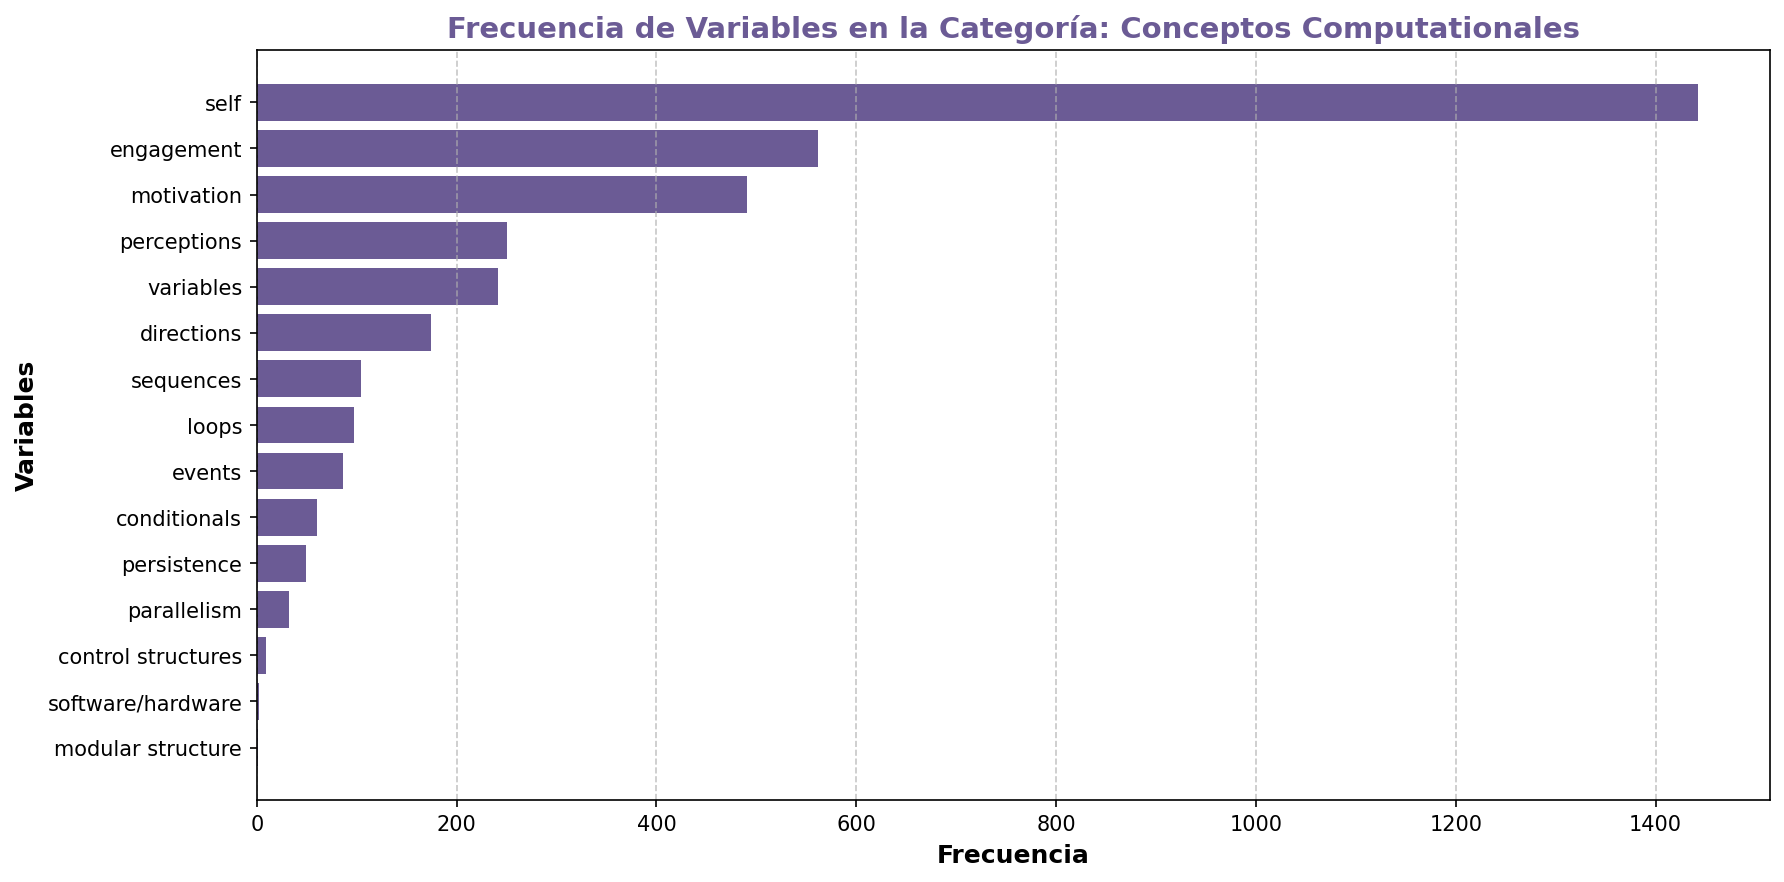
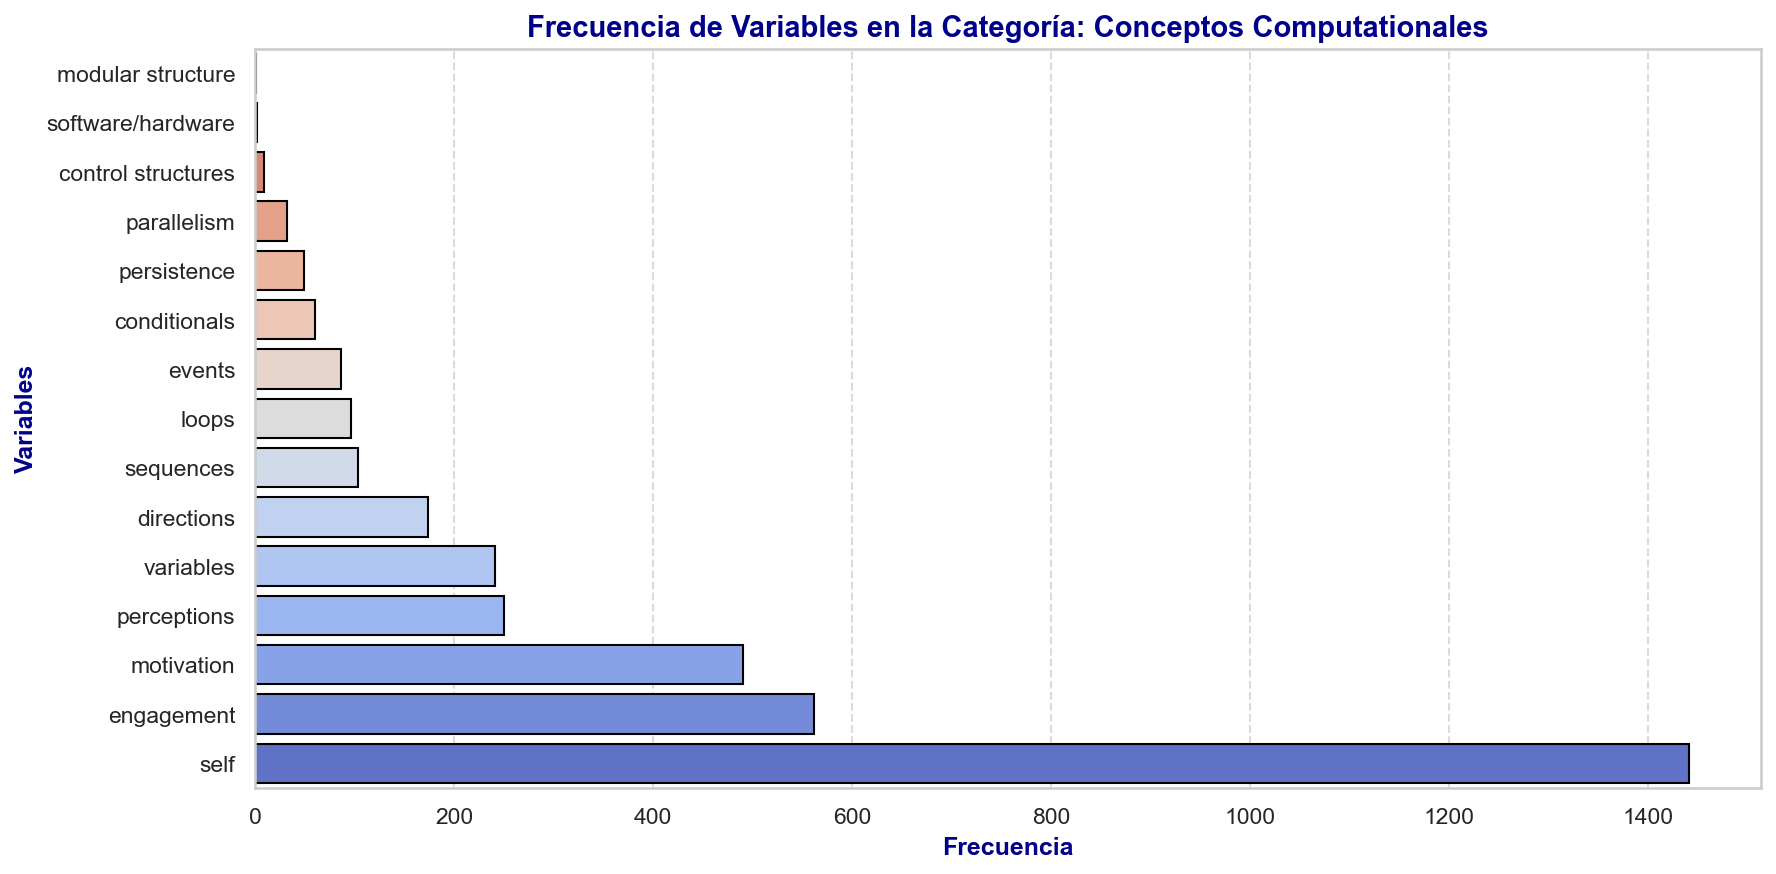
estadisticas mejoradas

diff --git a/requerimiento3&4/conteoPalabrasAbstract.py b/requerimiento3&4/conteoPalabrasAbstract.py
@@ -6,9 +6,11 @@ from collections import Counter, defaultdict
 import re
 from tqdm import tqdm
 from colorama import Fore, Style, init
+import seaborn as sns
 
-# Inicializar colorama
+# Inicializar colorama y configurar el estilo de seaborn
 init(autoreset=True)
+sns.set(style="whitegrid", palette="muted")
 
 # Función para cargar categorías y variables desde el archivo de texto
 def load_categories_from_file(filepath):
@@ -17,10 +19,8 @@ def load_categories_from_file(filepath):
         current_category = None
         for line in file:
             line = line.strip()
-            # Detectar el inicio de una nueva categoría
             if line.lower().startswith("categoría:") or line.lower().startswith("categoria:"):
                 current_category = line.split(":")[1].strip()
-            # Detectar variables dentro de una categoría
             elif line and current_category and not line.lower().startswith("variables:"):
                 categories[current_category].append(line)
     return dict(categories)
@@ -35,41 +35,33 @@ def print_title(title):
 
 # Función para procesar los abstracts y contar las palabras clave
 def count_keywords_in_abstracts(df, categories):
-    # Almacenar resultados de las frecuencias por categoría
     keyword_frequencies = {category: Counter() for category in categories}
     
-    # Progreso de la terminal con tqdm y colorama
     for index, row in tqdm(df.iterrows(), total=df.shape[0], desc=Fore.GREEN + "Procesando abstracts", unit="step"):
-        abstract = str(row['Abstract']).lower()  # Convertir a minúsculas para búsqueda insensible a mayúsculas
+        abstract = str(row['Abstract']).lower()
         
-        # Procesar sinónimos con guiones, unificando en una sola palabra
         for category, keywords in categories.items():
             for keyword in keywords:
-                # Reemplazar sinónimos por la palabra clave unificada
                 keyword_lower = keyword.lower()
                 if '-' in keyword:
-                    unified_keyword = keyword.split('-')[0].lower()  # Seleccionar la primera parte como la palabra clave unificada
+                    unified_keyword = keyword.split('-')[0].lower()
                 else:
                     unified_keyword = keyword_lower
 
-                # Buscar si la palabra clave (o su versión unificada) aparece en el abstract
-                if re.search(r'\b' + re.escape(unified_keyword) + r'\b', abstract):  # Asegurarse de que sea una palabra completa
+                if re.search(r'\b' + re.escape(unified_keyword) + r'\b', abstract):
                     keyword_frequencies[category][unified_keyword] += 1
 
     return keyword_frequencies
 
 # Función para generar una única nube de palabras
 def generate_wordcloud(keyword_frequencies):
-    # Combinar todas las palabras clave en un solo diccionario para WordCloud
     word_frequencies = Counter()
     for category_freq in keyword_frequencies.values():
         word_frequencies.update(category_freq)
 
-    # Crear la nube de palabras
     wordcloud = WordCloud(width=800, height=400, background_color='white', colormap='viridis')
     wordcloud.generate_from_frequencies(word_frequencies)
     
-    # Guardar y mostrar la nube de palabras
     stats_folder = "requerimiento3&4/statistics"
     if not os.path.exists(stats_folder):
         os.makedirs(stats_folder)
@@ -77,7 +69,6 @@ def generate_wordcloud(keyword_frequencies):
     wordcloud_path = os.path.join(stats_folder, 'nube_palabras.png')
     wordcloud.to_file(wordcloud_path)
     
-    # Mostrar la nube de palabras
     plt.figure(figsize=(10, 5))
     plt.imshow(wordcloud, interpolation="bilinear")
     plt.axis("off")
@@ -85,38 +76,29 @@ def generate_wordcloud(keyword_frequencies):
     plt.show()
     print(Fore.GREEN + f"Nube de palabras guardada en: {wordcloud_path}")
 
-# Función para generar gráficos estadísticos por categoría
+# Función para generar gráficos estadísticos por categoría con diseño Seaborn
 def generate_statistics_by_category(keyword_frequencies):
-    # Crear la carpeta "statistics" dentro de "requerimiento3&4" si no existe
     stats_folder = "requerimiento3&4/statistics"
     if not os.path.exists(stats_folder):
         os.makedirs(stats_folder)
-    
-    # Colores para cada categoría
-    category_colors = [
-        '#FF6F61', '#6B5B95', '#88B04B', '#F7CAC9', '#92A8D1', '#955251',
-        '#B565A7', '#009B77', '#DD4124', '#45B8AC', '#EFC050', '#5B5EA6'
-    ]
-    
-    # Crear y guardar un gráfico de barras para cada categoría
+
+    sns.set_palette("Spectral")
+
     for idx, (category, frequencies) in enumerate(keyword_frequencies.items()):
         df_category = pd.DataFrame(frequencies.items(), columns=["Variable", "Frecuencia"])
         df_category = df_category.sort_values(by="Frecuencia", ascending=False)
-        
-        # Seleccionar color específico para la categoría
-        color = category_colors[idx % len(category_colors)]
 
-        # Generar el gráfico de barras
         plt.figure(figsize=(12, 6))
-        plt.barh(df_category["Variable"], df_category["Frecuencia"], color=color)
-        plt.gca().invert_yaxis()  # Invertir el eje Y para que los más frecuentes estén arriba
-        plt.xlabel('Frecuencia', fontsize=12, weight='bold')
-        plt.ylabel('Variables', fontsize=12, weight='bold')
-        plt.title(f'Frecuencia de Variables en la Categoría: {category}', fontsize=14, weight='bold', color=color)
+        sns.barplot(x="Frecuencia", y="Variable", data=df_category, palette="coolwarm", edgecolor="black")
+        
+        plt.gca().invert_yaxis()
+        plt.xlabel('Frecuencia', fontsize=12, color='darkblue', weight='bold')
+        plt.ylabel('Variables', fontsize=12, color='darkblue', weight='bold')
+        plt.title(f'Frecuencia de Variables en la Categoría: {category}', fontsize=14, weight='bold', color='darkblue')
         plt.grid(axis='x', linestyle='--', alpha=0.7)
+        
         plt.tight_layout()
         
-        # Guardar el gráfico para cada categoría
         plt.savefig(f"{stats_folder}/frecuencia_{category.replace(' ', '_')}.png", bbox_inches='tight', dpi=150)
         plt.close()
         print(Fore.GREEN + f"Gráfico de frecuencia de '{category}' guardado en {stats_folder}")
